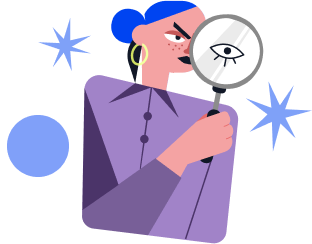
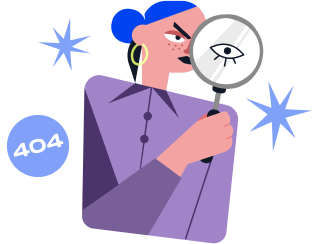
full mising

Changed region(s): [[0.0288, 0.5451, 0.2019, 0.6598]]

diff --git a/app/missing/page.tsx b/app/missing/page.tsx
@@ -10,31 +10,21 @@ export default function Missing() {
             <div className="background">
               <div className="container">
                   <img src="/assets/error/asset.jpg" className="logo" alt="" />
-                    <p className="error">
-                      <Typewriter
-                          words={['403', '404']}
-                          loop={false}
-                          cursor
-                          cursorStyle=''
-                          typeSpeed={180}
-                          deleteSpeed={140}
-                          delaySpeed={1120}
-                        />
-                    </p>
                   <div className="text">
                       <p className="textAtas">
                         Oopss!
                       </p>
                       <p className="textBawah">
-                        Looks like this page is <Typewriter
-                        words={['forbidden', 'missing']}
+                        Looks like this page is 
+                        <Typewriter
+                        words={[' missing', ' not found', ' 404']}
                         loop={false}
                         cursor
                         cursorStyle='_'
                         typeSpeed={60}
                         deleteSpeed={70}
-                        delaySpeed={1100}
-                      />
+                        delaySpeed={1500}
+                        />
                       </p>
                   </div>
               </div>

diff --git a/app/missing/style.css b/app/missing/style.css
@@ -9,7 +9,7 @@ img {
     position: relative;
     margin-left: auto;
     margin-right: auto;
-    margin-bottom: 8%;
+    margin-bottom: 8vw;
 }
 
 .container {
@@ -35,12 +35,25 @@ img {
     font-size: 4.5vw;
 }
 
-.error {
-    font-family: 'Concert One', sans-serif;
-    rotate: -28deg;
-    font-size: 6vw;
-    position: absolute;
-    left: 18vw;
-    bottom: 43vw;
+@media screen and (min-width: 1024px) and (max-width: 1920px) {
+    .container {
+        height: 50vw;
+    }
 
+    img {
+        padding-top: 7.5vw;
+        width: 30vw;
+        margin-bottom: 2vw;
+    }
+
+    .textAtas {
+        font-weight: 500;
+        font-size: 4vw;
+        margin-bottom: 0.5vw;
+    }
+    
+    .textBawah {
+        font-family: 400;
+        font-size: 2.5vw;
+    }
 }
